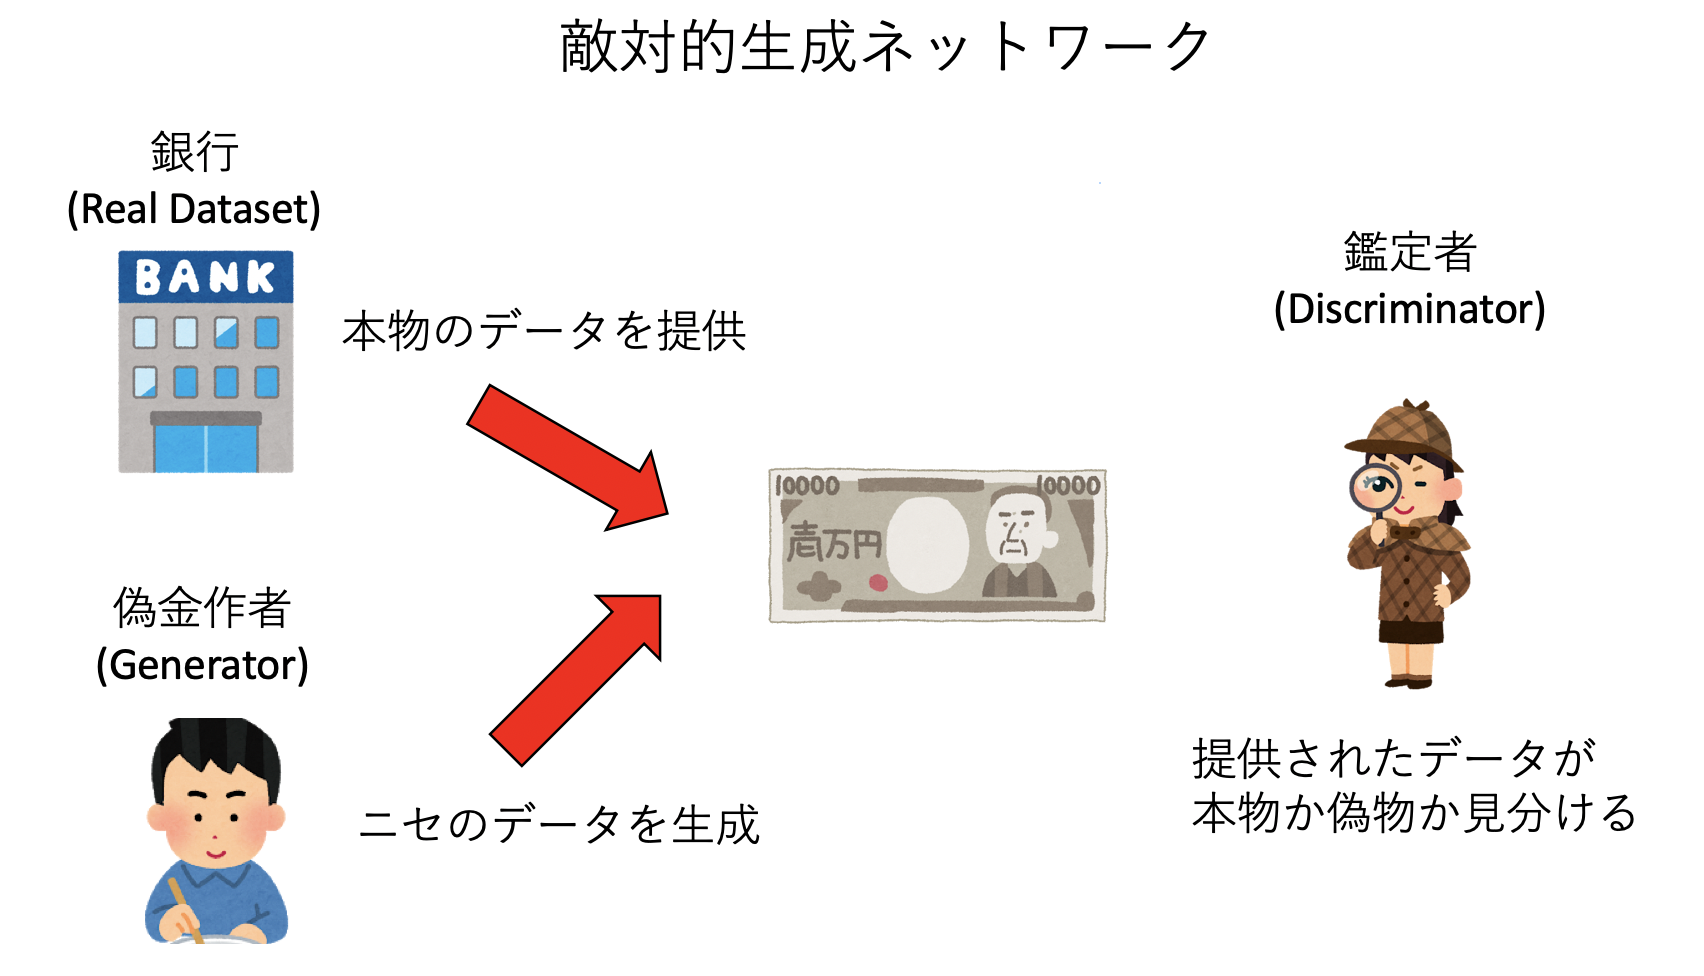
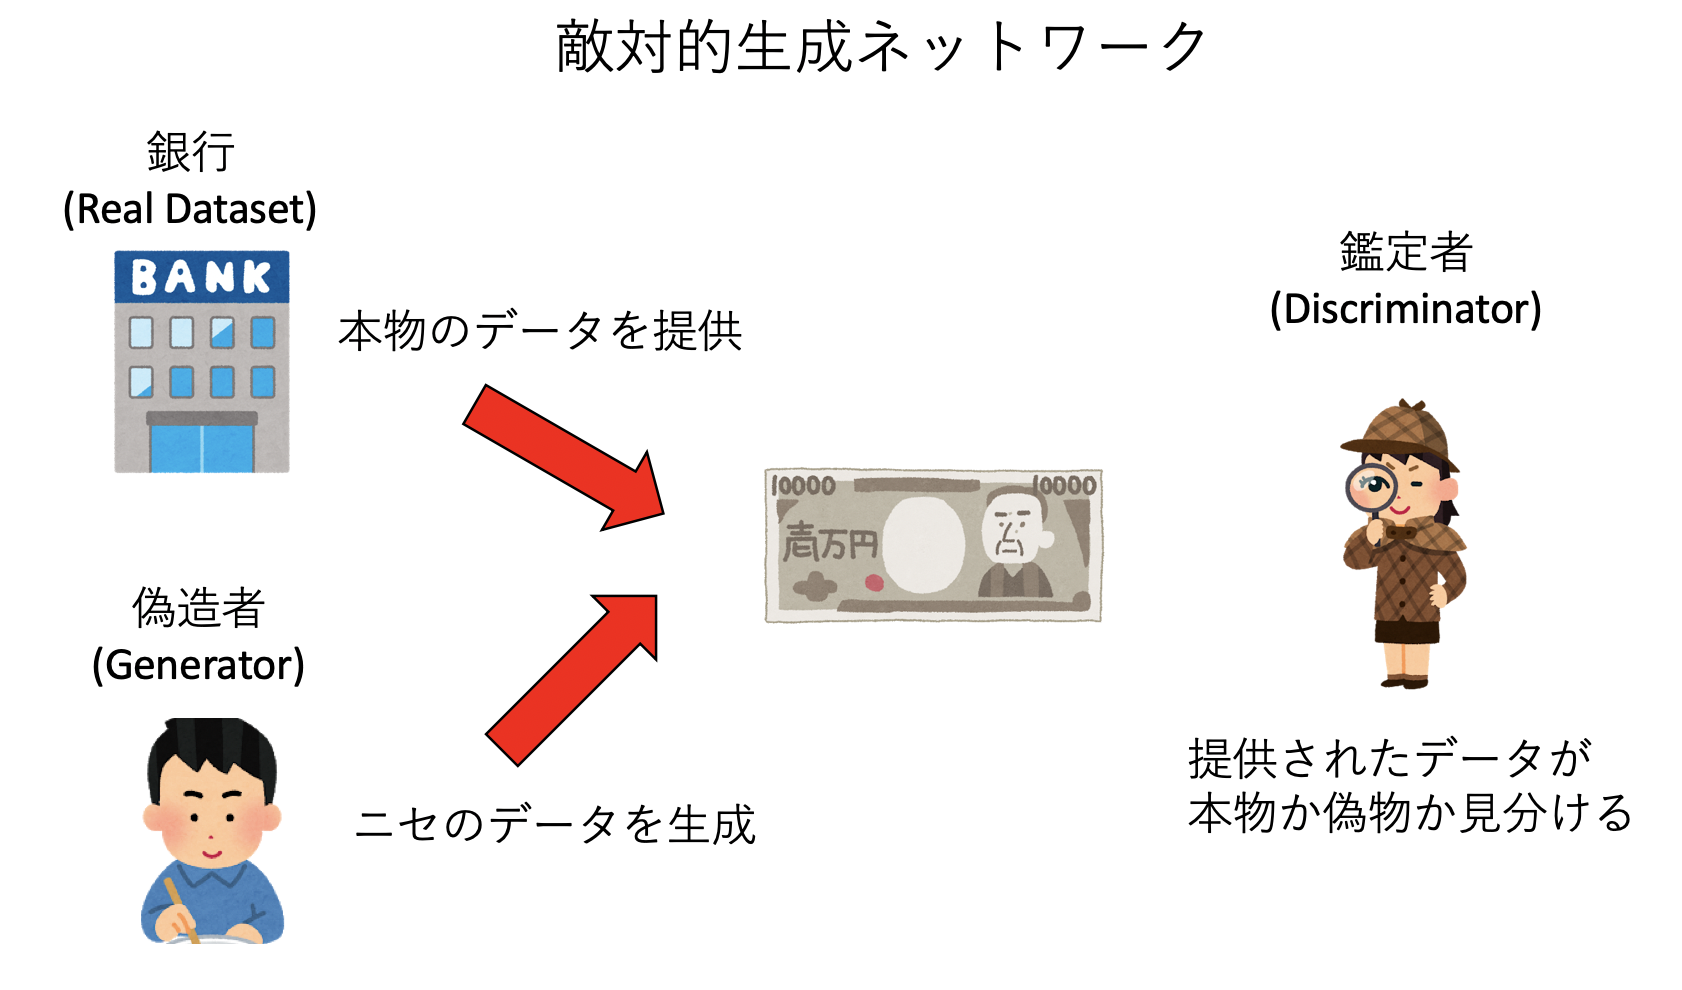
表現を修正

diff --git a/gan/index.html b/gan/index.html
@@ -96,8 +96,8 @@ code > span.in { color: #60a0b0; font-weight: bold; font-style: italic; } /* Inf
 <p>TODO: 最小二乗法の説明も入れる？</p>
 <h3 id="ganとは">GANとは</h3>
 <p>GAN (Generative Adversarial Networks)とは、直訳すると「敵対的生成ネットワーク」であり、二つのモデルを競わせることで画像を生成する手法である。</p>
-<p>GANはGeneratorとDiscriminatorの二つのモデルを学習させるが、これらはよく「贋金作者」「鑑定者」に例えられる。まず、本物のデータセットを用意する。その後、ランダムに「本物のデータ」とGeneratorが生成した「偽物のデータ」をDiscriminatorに見せ、それを本物か、偽物か判定させる。Discriminatorから見れば、これは二値分類問題になっている。ラベルは「本物」か「偽物」である。Discriminatorは大量に見せられるデータをどんどん鑑定することで「鑑定士」としての観察眼を磨いていく。</p>
-<p>逆に、Generatorは、自分が提出したデータが「偽物」と見破られたら失敗、「本物」と鑑定されたら成功であり、そのフィードバックを受けながら「贋金作者」としての腕を磨いていく。</p>
+<p>GANはGeneratorとDiscriminatorの二つのモデルを学習させるが、これらはよく「偽造者」「鑑定者」に例えられる。まず、本物のデータセットを用意する。その後、ランダムに「本物のデータ」とGeneratorが生成した「偽物のデータ」をDiscriminatorに見せ、それを本物か、偽物か判定させる。Discriminatorから見れば、これは二値分類問題になっている。ラベルは「本物」か「偽物」である。Discriminatorは大量に見せられるデータをどんどん鑑定することで「鑑定士」としての観察眼を磨いていく。</p>
+<p>逆に、Generatorは、自分が提出したデータが「偽物」と見破られたら失敗、「本物」と鑑定されたら成功であり、そのフィードバックを受けながら「偽造者」としての腕を磨いていく。</p>
 <p>こうしてGeneratorとDiscriminatorがお互いに切磋琢磨しながら学習していくと、最終的に「本物と見紛うばかりのデータを生成できるGeneratorが誕生するだろう」というのがGANの要諦である。</p>
 <div class="figure">
 <img src="fig/gan.png" alt="GANの概念図" />
@@ -141,7 +141,7 @@ BATCH_SIZE <span class="op">=</span> <span class="dv">32</span></code></pre></di
         net <span class="op">=</span> layers.conv2d(net, <span class="dv">1</span>, <span class="dv">4</span>, activation_fn<span class="op">=</span>tf.tanh)
         <span class="cf">return</span> net</code></pre></div>
 <h3 id="discriminatorの宣言">4. Discriminatorの宣言</h3>
-<p>Discriminator(警官)の宣言を行う。</p>
+<p>Discriminator(鑑定者)の宣言を行う。</p>
 <div class="sourceCode"><pre class="sourceCode py"><code class="sourceCode python"><span class="kw">def</span> discriminator_fn(img, _, weight_decay<span class="op">=</span><span class="fl">2.5e-5</span>, is_training<span class="op">=</span><span class="va">True</span>):
     <span class="cf">with</span> framework.arg_scope(
             [layers.conv2d, layers.fully_connected],

diff --git a/gan/README.md b/gan/README.md
@@ -44,9 +44,9 @@ TODO: 最小二乗法の説明も入れる？
 
 GAN (Generative Adversarial Networks)とは、直訳すると「敵対的生成ネットワーク」であり、二つのモデルを競わせることで画像を生成する手法である。
 
-GANはGeneratorとDiscriminatorの二つのモデルを学習させるが、これらはよく「贋金作者」「鑑定者」に例えられる。まず、本物のデータセットを用意する。その後、ランダムに「本物のデータ」とGeneratorが生成した「偽物のデータ」をDiscriminatorに見せ、それを本物か、偽物か判定させる。Discriminatorから見れば、これは二値分類問題になっている。ラベルは「本物」か「偽物」である。Discriminatorは大量に見せられるデータをどんどん鑑定することで「鑑定士」としての観察眼を磨いていく。
+GANはGeneratorとDiscriminatorの二つのモデルを学習させるが、これらはよく「偽造者」「鑑定者」に例えられる。まず、本物のデータセットを用意する。その後、ランダムに「本物のデータ」とGeneratorが生成した「偽物のデータ」をDiscriminatorに見せ、それを本物か、偽物か判定させる。Discriminatorから見れば、これは二値分類問題になっている。ラベルは「本物」か「偽物」である。Discriminatorは大量に見せられるデータをどんどん鑑定することで「鑑定士」としての観察眼を磨いていく。
 
-逆に、Generatorは、自分が提出したデータが「偽物」と見破られたら失敗、「本物」と鑑定されたら成功であり、そのフィードバックを受けながら「贋金作者」としての腕を磨いていく。
+逆に、Generatorは、自分が提出したデータが「偽物」と見破られたら失敗、「本物」と鑑定されたら成功であり、そのフィードバックを受けながら「偽造者」としての腕を磨いていく。
 
 こうしてGeneratorとDiscriminatorがお互いに切磋琢磨しながら学習していくと、最終的に「本物と見紛うばかりのデータを生成できるGeneratorが誕生するだろう」というのがGANの要諦である。
 
@@ -109,7 +109,7 @@ def generator_fn(noise, weight_decay=2.5e-5, is_training=True):
 
 ### 4. Discriminatorの宣言
 
-Discriminator(警官)の宣言を行う。
+Discriminator(鑑定者)の宣言を行う。
 
 ```py
 def discriminator_fn(img, _, weight_decay=2.5e-5, is_training=True):
